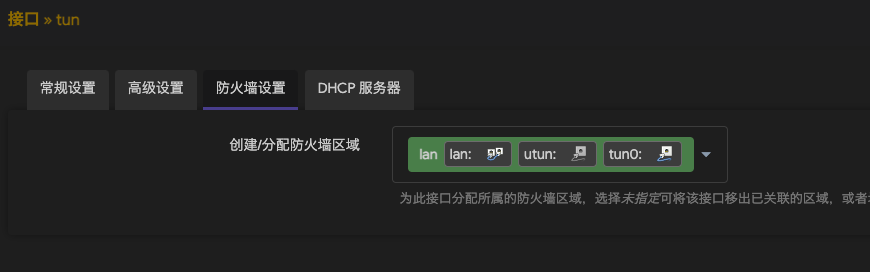
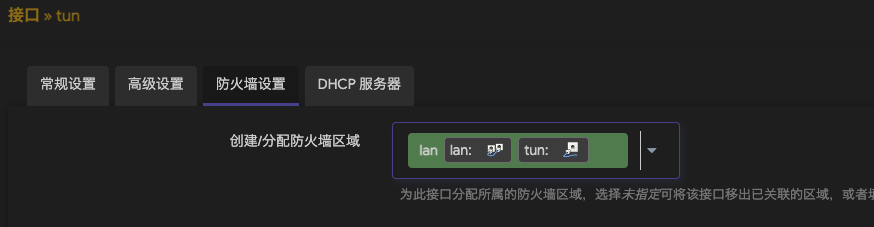
Update

diff --git a/content/posts/openwrt_ax6000.md b/content/posts/openwrt_ax6000.md
@@ -19,7 +19,10 @@ tags:
 * https://cmi.hanwckf.top/p/mt798x-uboot-usage/
 * https://github.com/hanwckf/bl-mt798x/releases/latest
 
-按住路由器的RESET按钮之后通电，保持至少15秒后松开，路由器会自动进入uboot的failsafe模式，由于uboot没有DHCP功能，需要把电脑的IP地址设置成静态IP `192.168.31.100/24`，更新固件`http://192.168.31.1/`，更新uboot`http://192.168.31.1/uboot.html`。
+按住路由器的RESET按钮之后通电，保持至少15秒后松开，路由器会自动进入uboot的failsafe模式，由于uboot没有DHCP功能，需要把电脑的IP地址设置成静态IP `192.168.31.100/24`。
+
+* 更新固件: `http://192.168.31.1/`
+* 更新 uboot: `http://192.168.31.1/uboot.html`
 
 ```shell
 scp -O '/Users/user/Downloads/mt7986_redmi_ax6000-fip-fixed-parts-multi-layout.bin' root@192.168.1.1:/tmp/
